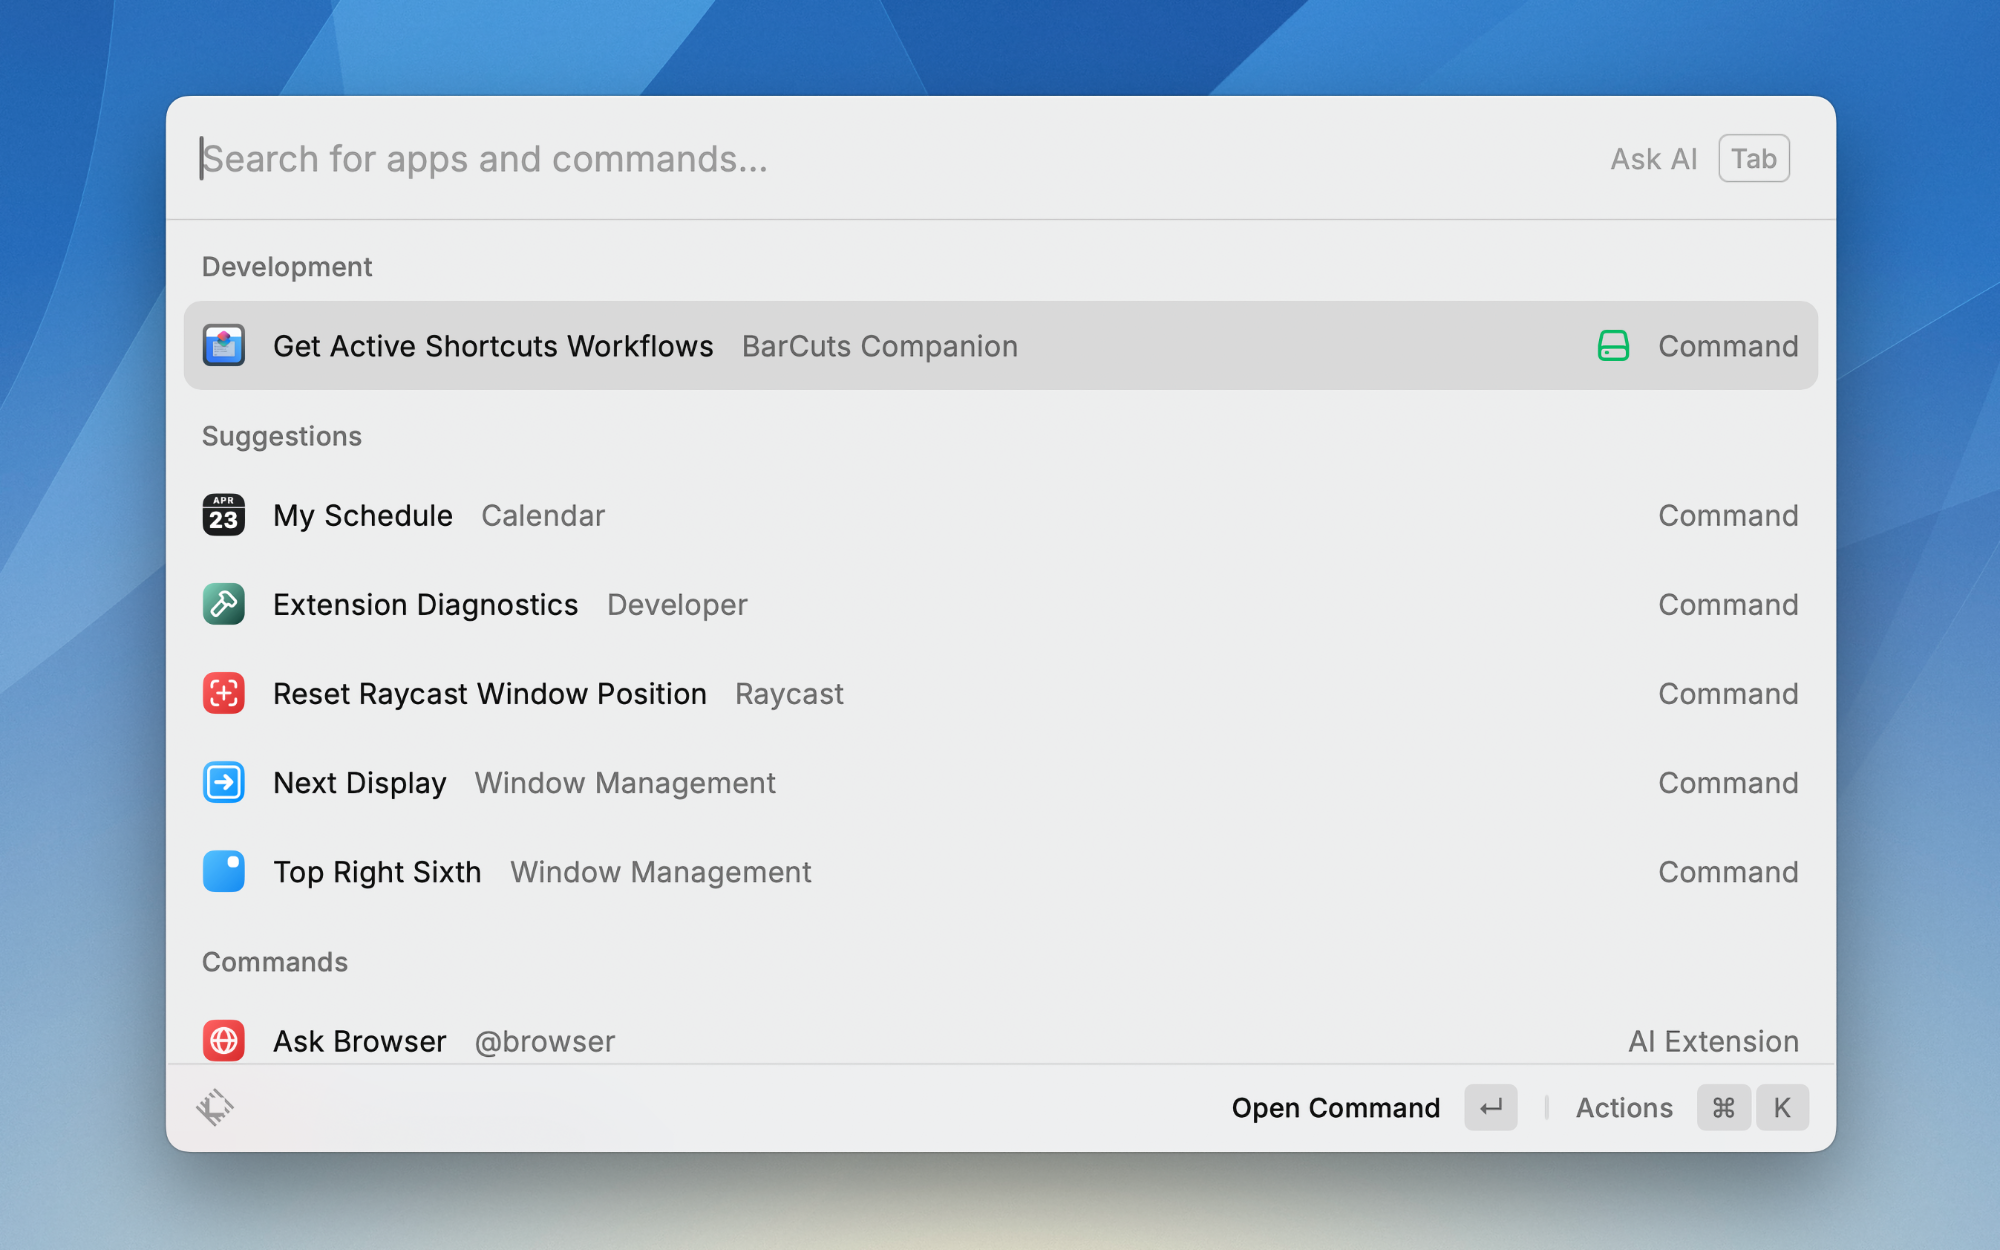
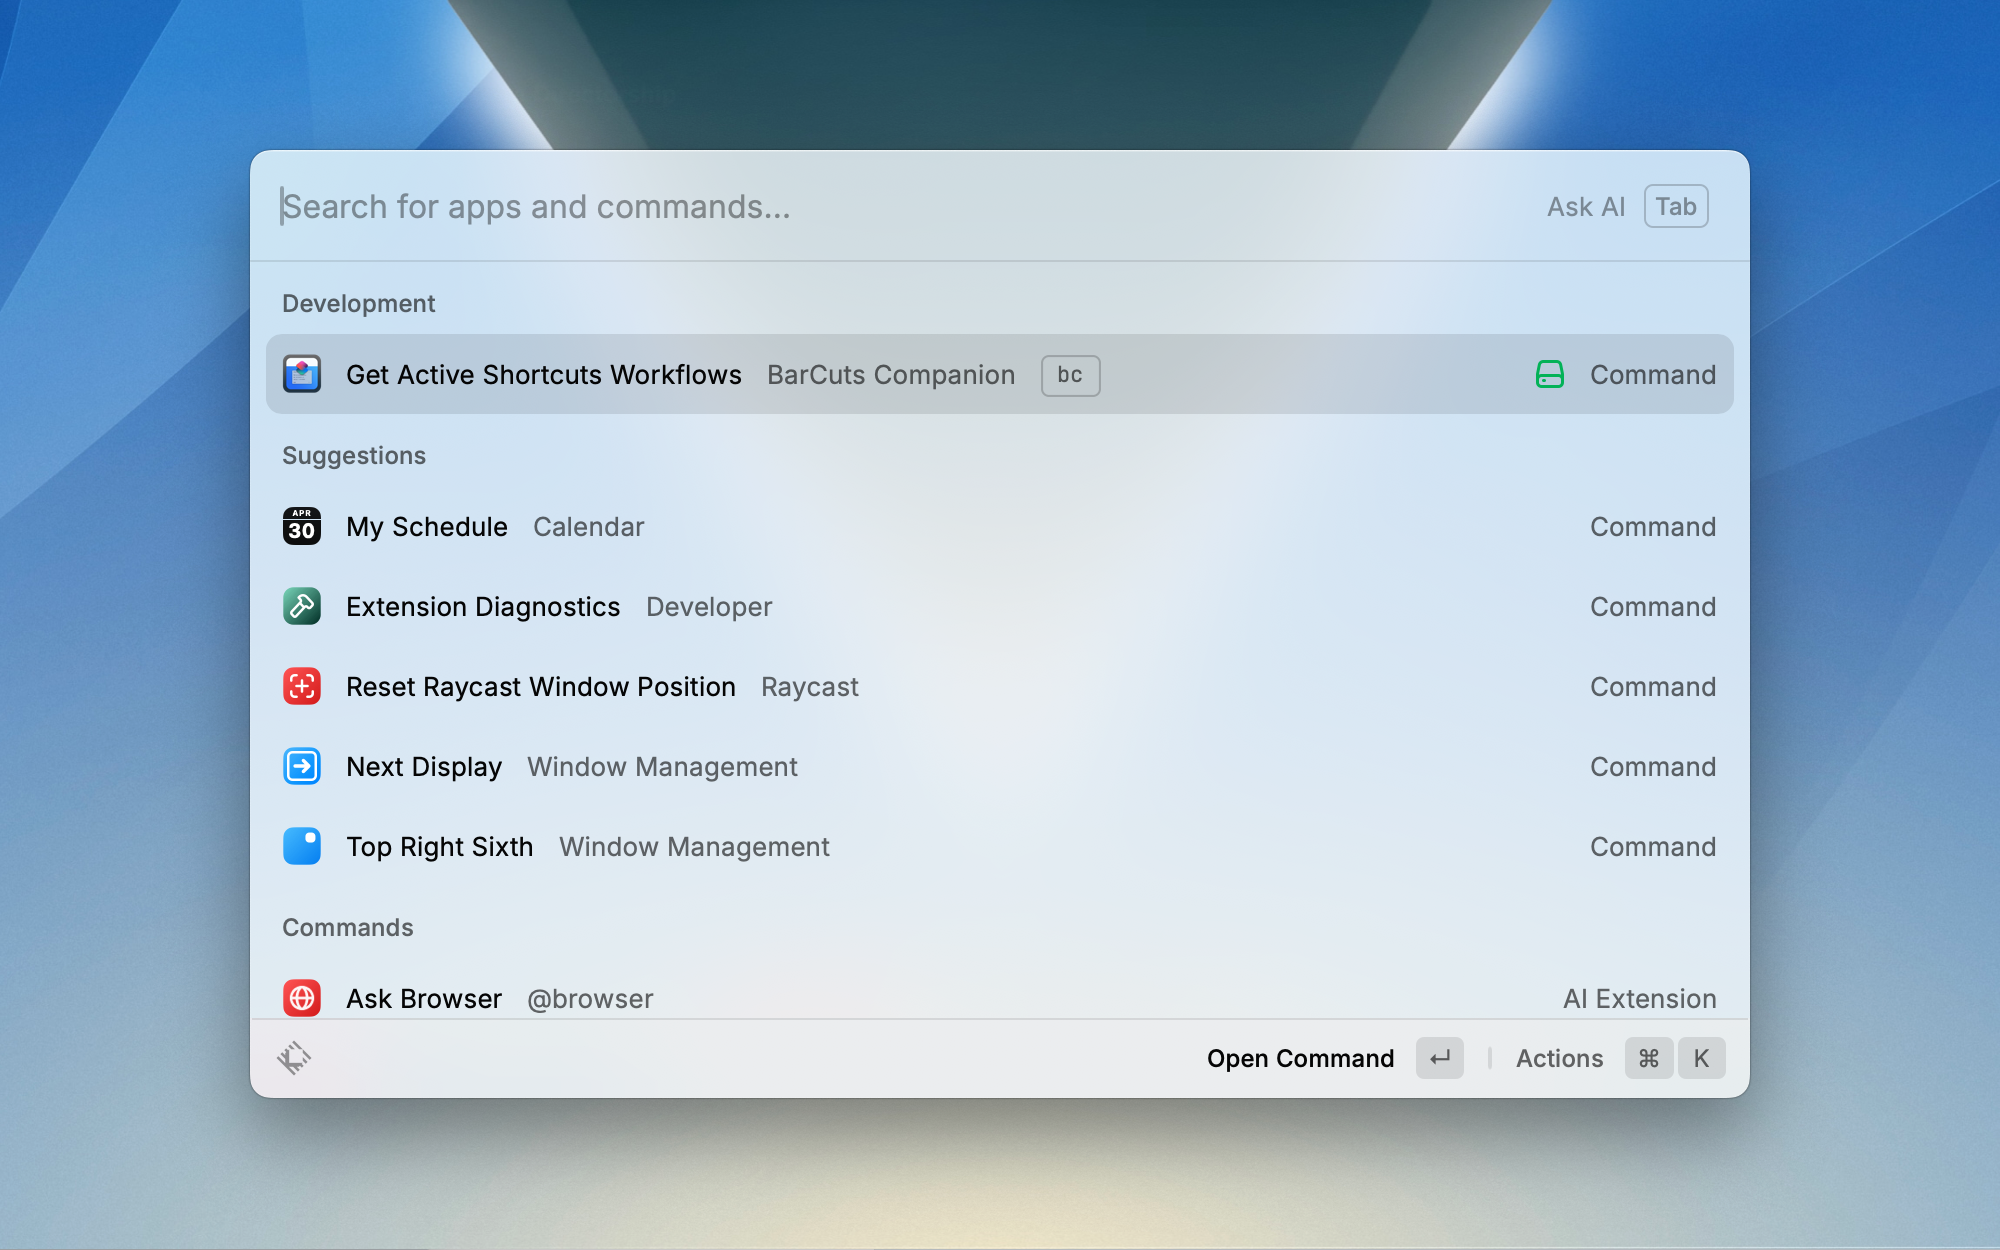
Update barcuts-companion extension
- [NEW] Shows app name as subtitle for non-global workflows
- [CHG] Updates screenshots using Raycast window capture, as requested during review

diff --git a/extensions/barcuts-companion/src/get-workflows.tsx b/extensions/barcuts-companion/src/get-workflows.tsx
@@ -2,7 +2,7 @@ import { Action, ActionPanel, closeMainWindow, Icon, List, PopToRootType, showTo
 import { runAppleScript, useExec } from "@raycast/utils";
 import { useMemo } from "react";
 import { execSync } from "child_process";
-import { CLIOutput, WorkflowItem } from "./types.d";
+import { CLIOutput, PreparedCLIOutput } from "./types.d";
 
 let appPath: string | undefined;
 try {
@@ -37,16 +37,19 @@ export default function Command() {
   const { isLoading, data } = useExec(`${appPath}/Contents/MacOS/barcuts-cli`);
 
   // Parse BarCuts data
-  const workflows = useMemo<WorkflowItem[]>(() => {
+  const { appName, workflows } = useMemo<PreparedCLIOutput>(() => {
     try {
       const cliOutput: CLIOutput = JSON.parse(data || "{}") || {};
-      return [
-        ...cliOutput.activeWorkflows,
-        ...(cliOutput.globalWorkflows || []).map((wf) => ({
-          ...wf,
-          isGlobal: true,
-        })),
-      ];
+      return {
+        appName: cliOutput.activeAppName,
+        workflows: [
+          ...cliOutput.activeWorkflows,
+          ...(cliOutput.globalWorkflows || []).map((wf) => ({
+            ...wf,
+            isGlobal: true,
+          })),
+        ],
+      };
     } catch (e) {
       console.error("Failed to parse BarCuts CLI output:", e);
       showToast({
@@ -54,7 +57,7 @@ export default function Command() {
         title: "Failed to load workflow list",
         message: "Could not parse data from BarCuts CLI.",
       });
-      return [];
+      return { appName: "", workflows: [] };
     }
   }, [data]);
 
@@ -78,7 +81,7 @@ export default function Command() {
         <List.Item
           key={wf.workflowID}
           title={wf.fullTitle}
-          subtitle={wf.isGlobal ? "Global workflow" : undefined}
+          subtitle={wf.isGlobal ? "Global workflow" : `${appName} workflow`}
           actions={
             <ActionPanel>
               <Action

diff --git a/extensions/barcuts-companion/src/types.d.ts b/extensions/barcuts-companion/src/types.d.ts
@@ -1,7 +1,13 @@
 export type CLIOutput = {
+  activeAppID: string;
+  activeAppName: string;
   activeWorkflows: WorkflowItem[];
   globalWorkflows: WorkflowItem[];
-  activeAppID: string;
+};
+
+export type PreparedCLIOutput = {
+  appName: string;
+  workflows: WorkflowItem[];
 };
 
 export type WorkflowItem = {
